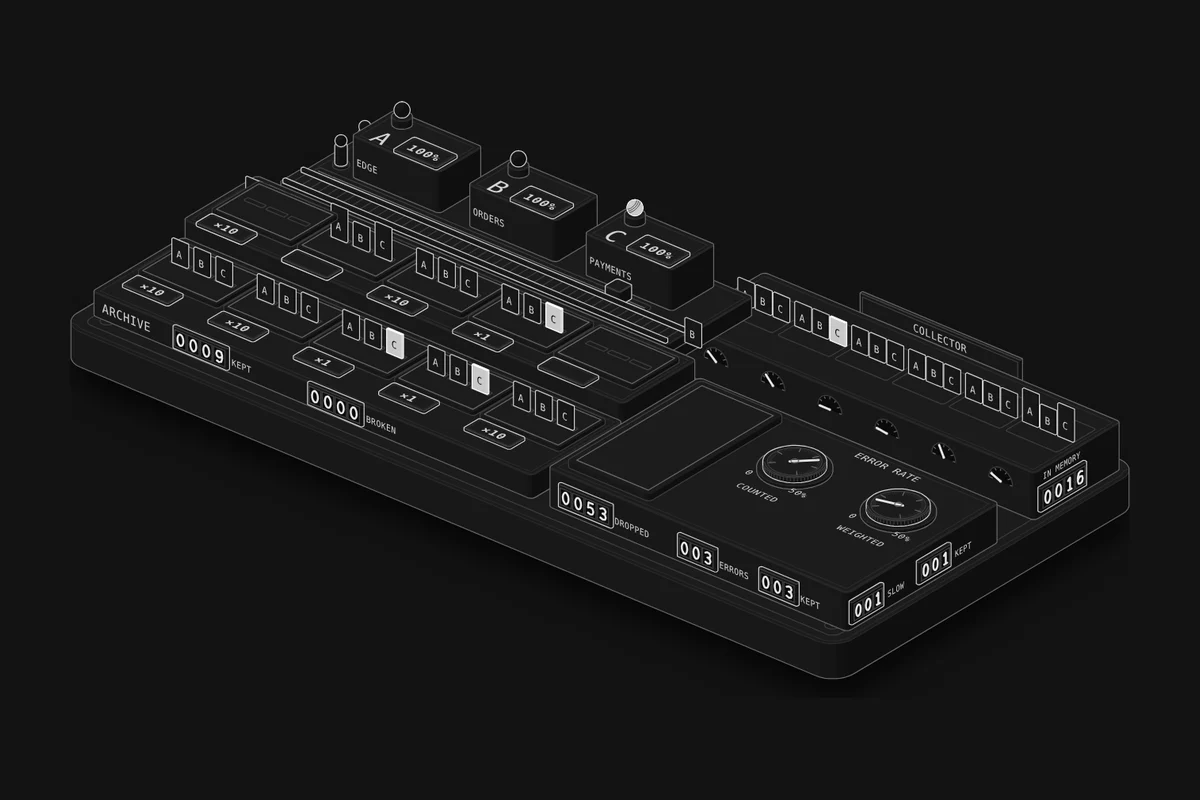
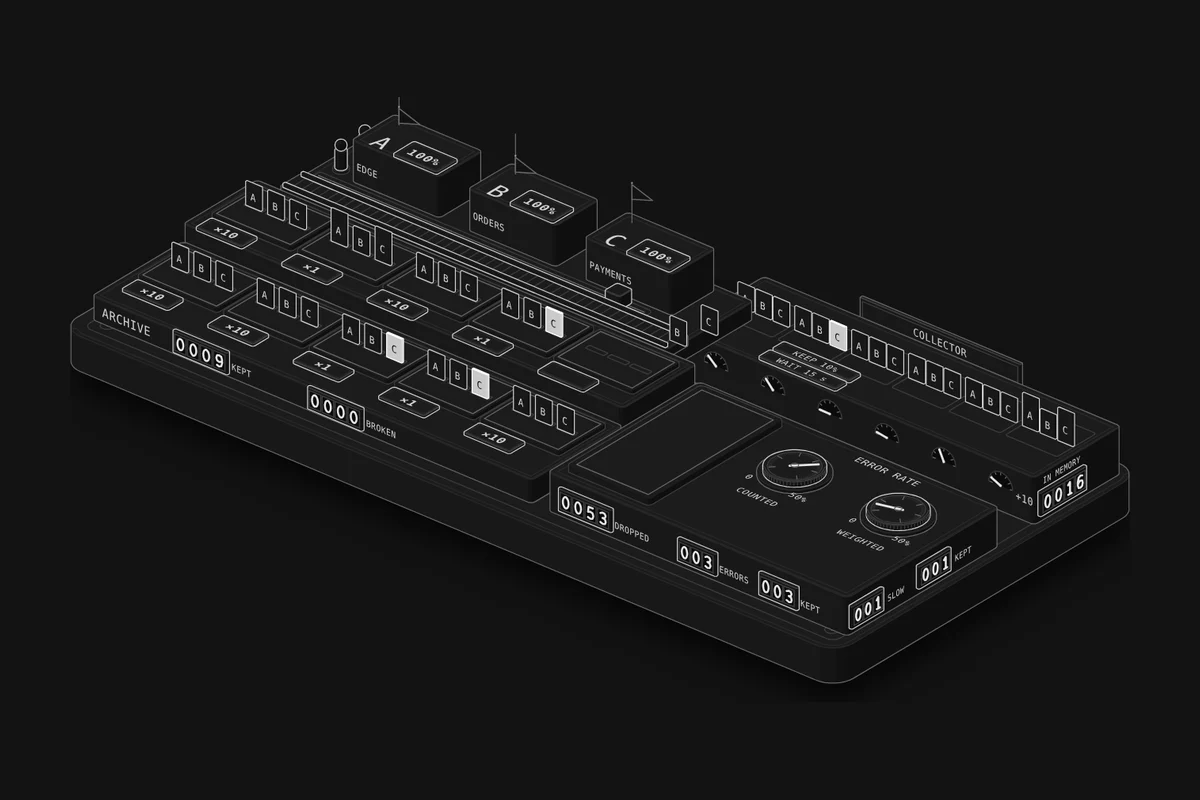
Lesson 73: fix review findings (folders on the right tiers, collector rules and +N on the rack, sampler flags, shorter caption)
Claude-Session: https://claude.ai/code/session_01S5z2gCvevbrGU3fXgpGDmP

diff --git a/src/lessons/sampling/figure.ts b/src/lessons/sampling/figure.ts
@@ -1,14 +1,15 @@
 // @ts-nocheck: figure code in the style of the other lessons; drawing shorthands come from src/lib/draw.
 // A trace archive. At the back left, the service bench: requests from the users walk a track past three services, A
-// (the edge), B (orders) and C (payments); each service has a sampler (a lamp that lights when it records, and a
+// (the edge), B (orders) and C (payments); each service has a sampler (a flag it raises while it records, and a
 // plaque with its rate) and writes one span card per request. The cards ride the belt to the collector at the back
-// right, whose rack holds each trace's cards over a timer (the decision wait) until it keeps or drops them. Kept cards
+// right, whose rack holds each trace's cards over a timer (the decision wait) until it keeps or drops them; plaques in
+// front of the rack give its rules, and a "+N" tag at the end of the rack counts the traces held that it can't show. Kept cards
 // are filed by trace in the archive's folders, each with its weight; dropped ones fall into the discard bin. On the
 // tally desk: errors and slow requests sent and kept, and two dials for the error rate the archive gives, counted and
 // weighted. Every number is a counter on a real object.
 // Built with the Anatomy kit (MIT, github.com/wheresryan22/anatomy) and the shared workbench parts.
 import * as k from "../../../workbench/kit.mjs";
-import { basePlate, digitCounter, figurine, dial, meter, plaque, sign, lamp, faceText, litFill } from "../../../workbench/parts.mjs";
+import { basePlate, digitCounter, figurine, dial, meter, plaque, sign, pennant, faceText } from "../../../workbench/parts.mjs";
 import { t } from "../../../workbench/i18n.mjs";
 import { shorthand } from "../../lib/draw";
 
@@ -27,7 +28,7 @@ const ST_TOP = BENCH_H + ST_H;                        // 20
 const ST_FRONT = ST_Y + ST_D;                         // -74
 export const TRACK_Y = -69.5;
 export const ENTRY = [-142, TRACK_Y, BENCH_H];
-export const LAMP_AT = SX.map((cx) => [cx - 10, ST_Y + 5, ST_TOP]);
+export const FLAG_AT = SX.map((cx) => [cx - 12, ST_Y + 4, ST_TOP]);
 // where a span card leaves its station
 export const EMIT = SX.map((cx) => [cx + 6, ST_FRONT + 1, BENCH_H + 0.2]);
 
@@ -98,10 +99,13 @@ function station(i) {
   const plan = { x: cx - 17, y: ST_Y, w: 34, d: ST_D, r: 1.4 };
   const out = [S(k.slabOf(plan, BENCH_H, ST_H, P, 3, 0.5), { tone: "mid", inner: L(k.planOutline(k.insetPlan(plan, 1.8), ST_TOP, P), { tone: "faint" }) })];
   out.push(faceText(P, [cx - 9, ST_Y + 18.5, ST_TOP], "ABC"[i], { face: "top", size: 9, tone: "hi", anchor: "middle" }));
-  // the sampler: its rate on a plaque (the live code writes it) and a lamp that lights while it records
+  // the sampler: its rate on a plaque (the live code writes it) and a flag it raises while it records
   out.push(plaque(P, { x: cx - 1.5, y: ST_Y + 9.5, z: ST_TOP, w: 17, d: 10 }));
   out.push(faceText(P, [cx + 7, ST_Y + 16.6, ST_TOP + 0.8], "10%", { face: "top", size: 4.6, tone: "hi", anchor: "middle", attr: `data-rate="${i}"` }));
-  out.push(`<g data-lamp="${i}">${lamp(P, LAMP_AT[i], { r: 2.4 })}</g><g data-lamp-on="${i}" style="display:none">${litFill(lamp(P, LAMP_AT[i], { r: 2.4, lit: true }))}</g>`);
+  const [fx, fy, fz] = FLAG_AT[i];
+  const pole = L(k.segment([fx, fy, fz], [fx, fy, fz + 13.6], P), { tone: "mid" });
+  out.push(`<g data-flag-down="${i}">${pole}${pennant(P, { x: fx, y: fy, z: fz, height: 5.6, length: 8, drop: 5 })}</g>`);
+  out.push(`<g data-flag-up="${i}" style="display:none">${pennant(P, { x: fx, y: fy, z: fz, height: 13, length: 8, drop: 5 })}</g>`);
   out.push(words(cx - 15, ST_FRONT, BENCH_H + 4.6, NAMES[i], 3.2, { tone: "hi" }));
   return out.join("");
 }
@@ -138,6 +142,16 @@ function collector() {
     out.push(L(k.planOutline({ x, y: -88, w: SLOT_W, d: 18, r: 0.8 }, COLL_H, P), { tone: "lo" }));
     out.push(`<g data-meter-wrap="${i}">${meterPart(x + SLOT_W / 2, i)}</g>`);
   });
+  // the rules, on plaques in front of the rack (tail sampling only): one set per collector
+  // (stacked, and clear of the left end, which the archive's back tier hides)
+  for (const [c, x0] of [[0, 38], [1, 106]]) {
+    const out2 = [plaque(P, { x: x0, y: -69.4, z: COLL_H, w: 30, d: 5.6 }), plaque(P, { x: x0, y: -63, z: COLL_H, w: 30, d: 5.6 })];
+    out2.push(faceText(P, [x0 + 15, -65.1, COLL_H + 0.8], "", { face: "top", size: 3.3, tone: "hi", anchor: "middle", attr: `data-rule="keep"` }));
+    out2.push(faceText(P, [x0 + 15, -58.7, COLL_H + 0.8], "", { face: "top", size: 3.3, tone: "hi", anchor: "middle", attr: `data-rule="wait"` }));
+    out.push(`<g data-rules="${c}" style="display:none">${out2.join("")}</g>`);
+  }
+  // "+N": traces held in memory beyond the rack's slots, at the end of each collector's slots
+  for (const [c, x] of [[0, 78.2], [1, 142.2]]) out.push(faceText(P, [x, COLL_FRONT, 6.2], "", { size: 3.6, tone: "hi", anchor: "middle", attr: `data-more="${c}"` }));
   // the wall between the two collectors (shown with two)
   out.push(`<g data-divider style="display:none">${S(k.slabOf({ x: 77.2, y: -92, w: 1.6, d: 30, r: 0.3 }, COLL_H, 6, P, 2), { tone: "hi", crease: "lo" })}</g>`);
   // IN MEMORY: traces held waiting for a decision, on the collector's right side
@@ -235,8 +249,8 @@ export function buildFigure() {
     width: WIDTH,
     height: HEIGHT,
     label: t(
-      "A trace archive on a base plate. At the back left, users send requests along a track past three services on a bench: A, the edge, B, orders, and C, payments. Each service has a sampler with a lamp and a plaque showing its rate, and writes one span card per request it records. The cards ride a belt across the middle to the collector at the back right, whose rack holds each trace's cards over a timer until it decides to keep or drop them; a counter on its side shows the traces held in memory. Kept cards are filed by trace in the archive's folders at the front left, three places per folder, with a plaque giving the trace's weight; counters show the traces kept and those kept with spans missing. Dropped cards fall into the discard bin at the right. On the tally desk in front, counters show errors and slow requests sent and kept, and two dials show the error rate the archive gives when you count its traces and when you weight them.",
-      "Un archivo de trazas sobre una placa base. Atrás a la izquierda, los usuarios envían solicitudes por un riel que pasa por tres servicios sobre un banco: A, la entrada, B, pedidos, y C, pagos. Cada servicio tiene un muestreador con una lámpara y una placa con su tasa, y escribe una tarjeta de span por cada solicitud que registra. Las tarjetas viajan por una cinta en el medio hasta el colector, atrás a la derecha, cuyo estante retiene las tarjetas de cada traza sobre un temporizador hasta que decide guardarlas o descartarlas; un contador en su costado muestra las trazas retenidas en memoria. Las tarjetas guardadas se archivan por traza en las carpetas del archivo, adelante a la izquierda, con tres lugares por carpeta y una placa con el peso de la traza; los contadores muestran las trazas guardadas y las que se guardaron con spans faltantes. Las tarjetas descartadas caen al cajón de descarte, a la derecha. En el escritorio de conteo, adelante, los contadores muestran los errores y las solicitudes lentas enviados y guardados, y dos diales muestran la tasa de error que da el archivo si cuentas sus trazas y si las ponderas.",
+      "A trace archive on a base plate. At the back left, users send requests along a track past three services on a bench: A, the edge, B, orders, and C, payments. Each service has a sampler with a flag it raises while it records and a plaque showing its rate, and writes one span card per request it records. The cards ride a belt across the middle to the collector at the back right, whose rack holds each trace's cards over a timer until it decides to keep or drop them; plaques in front of the rack give its keep rate and decision wait, a tag at the end of the rack counts the traces held beyond its slots, and a counter on its side shows all the traces held in memory. Kept cards are filed by trace in the archive's folders at the front left, three places per folder, with a plaque giving the trace's weight; counters show the traces kept and those kept with spans missing. Dropped cards fall into the discard bin at the right. On the tally desk in front, counters show errors and slow requests sent and kept, and two dials show the error rate the archive gives when you count its traces and when you weight them.",
+      "Un archivo de trazas sobre una placa base. Atrás a la izquierda, los usuarios envían solicitudes por un riel que pasa por tres servicios sobre un banco: A, la entrada, B, pedidos, y C, pagos. Cada servicio tiene un muestreador con una bandera que levanta mientras registra y una placa con su tasa, y escribe una tarjeta de span por cada solicitud que registra. Las tarjetas viajan por una cinta en el medio hasta el colector, atrás a la derecha, cuyo estante retiene las tarjetas de cada traza sobre un temporizador hasta que decide guardarlas o descartarlas; unas placas delante del estante dan su tasa de guardado y su espera de decisión, una etiqueta al final del estante cuenta las trazas retenidas que no caben en sus lugares, y un contador en su costado muestra todas las trazas retenidas en memoria. Las tarjetas guardadas se archivan por traza en las carpetas del archivo, adelante a la izquierda, con tres lugares por carpeta y una placa con el peso de la traza; los contadores muestran las trazas guardadas y las que se guardaron con spans faltantes. Las tarjetas descartadas caen al cajón de descarte, a la derecha. En el escritorio de conteo, adelante, los contadores muestran los errores y las solicitudes lentas enviados y guardados, y dos diales muestran la tasa de error que da el archivo si cuentas sus trazas y si las ponderas.",
     ),
     body: [
       plate(),
@@ -250,11 +264,11 @@ export function buildFigure() {
       belt(),
       `<g data-layer="belt"></g>`,
       tier(BACK, BACK_H),
-      Array.from({ length: 6 }, (_, j) => folder(6 + j)).join(""),
+      Array.from({ length: 5 }, (_, j) => folder(5 + j)).join(""),
       `<g data-layer="back"></g>`,
       tier(FRONT, FRONT_H),
       archiveFront(),
-      Array.from({ length: 6 }, (_, j) => folder(j)).join(""),
+      Array.from({ length: 5 }, (_, j) => folder(j)).join(""),
       `<g data-layer="front"></g>`,
       desk(),
       `<g data-layer="bin"></g>`,

diff --git a/src/lessons/sampling/live.ts b/src/lessons/sampling/live.ts
@@ -19,7 +19,10 @@ export default function mount({ P, G, CARD_SVG, TOKEN_SVG }, root) {
   const say = (v) => root.figure.say(L(v));
   const stat = (key, value) => root.stat(key, value);
   const layers = Object.fromEntries(["rack", "tokens", "belt", "back", "bin", "front", "fly"].map((n) => [n, q('[data-layer="' + n + '"]')]));
-  const lampOff = [0, 1, 2].map((i) => q('[data-lamp="' + i + '"]')), lampOn = [0, 1, 2].map((i) => q('[data-lamp-on="' + i + '"]'));
+  const flagDown = [0, 1, 2].map((i) => q('[data-flag-down="' + i + '"]')), flagUp = [0, 1, 2].map((i) => q('[data-flag-up="' + i + '"]'));
+  const rules = [0, 1].map((c) => q('[data-rules="' + c + '"]'));
+  const ruleText = (name) => qa('[data-rule="' + name + '"]');
+  const moreText = [0, 1].map((c) => q('[data-more="' + c + '"]'));
   const rateText = [0, 1, 2].map((i) => q('[data-rate="' + i + '"]'));
   const weightText = Array.from({ length: G.FOLDERS }, (_, i) => q('[data-weight="' + i + '"]'));
   const signs = { one: q('[data-signs="one"]'), two: q('[data-signs="two"]') }, divider = q("[data-divider]");
@@ -89,6 +92,10 @@ export default function mount({ P, G, CARD_SVG, TOKEN_SVG }, root) {
     rateText.forEach((el, i) => setText(el, cfg.mode === "tail" ? "100%" : i === 2 && cfg.pay === "all" ? "100%" : pc(keep)));
     const two = cfg.mode === "tail" && cfg.coll !== "one";
     show(signs.one, !two); show(signs.two, two); show(divider, two);
+    // the collector's rules, in front of its rack: only tail sampling has any
+    show(rules[0], cfg.mode === "tail"); show(rules[1], two);
+    ruleText("keep").forEach((el) => setText(el, L("KEEP ", "GUARDA ") + pc(keep)));
+    ruleText("wait").forEach((el) => setText(el, L("WAIT ", "ESPERA ") + cfg.wait + " s"));
   }
 
   // ---------- where things are ----------
@@ -159,7 +166,7 @@ export default function mount({ P, G, CARD_SVG, TOKEN_SVG }, root) {
           const who = cfg.coll === "one" ? "" : " (" + L("collector ", "colector ") + (p.coll + 1) + ")";
           const of = p.seen + "/" + (p.seen + p.late);
           let text;
-          if (p.why === "error") text = T("trace " + tr.id + " kept" + who + ": payments failed", "traza " + tr.id + " guardada" + who + ": pagos falló");
+          if (p.why === "error") text = T("trace " + tr.id + " kept" + who + ": payments failed", "traza " + tr.id + " guardada" + who + ": falló en pagos");
           else if (p.why === "slow") text = T("trace " + tr.id + " kept" + who + ": it took " + fmt(tr.spans[0].end - tr.t0), "traza " + tr.id + " guardada" + who + ": tardó " + fmt(tr.spans[0].end - tr.t0));
           else if (p.why === "base") text = T("trace " + tr.id + " kept" + who + " by the " + Math.round(lab.cfg.keep * 100) + "% rule", "traza " + tr.id + " guardada" + who + " por la regla del " + Math.round(lab.cfg.keep * 100) + "%");
           else if (p.late && (tr.slow || tr.err)) text = T("trace " + tr.id + " dropped" + who + ": judged on " + of + " spans · the slow or failing ones come later", "traza " + tr.id + " descartada" + who + ": juzgada con " + of + " spans · los lentos o fallidos llegan después");
@@ -177,9 +184,9 @@ export default function mount({ P, G, CARD_SVG, TOKEN_SVG }, root) {
             : T("request " + tr.id + " will fail at payments · the edge didn't sample it, so payments doesn't record it", "la solicitud " + tr.id + " va a fallar en pagos · la entrada no la muestreó, así que pagos no la registra");
         } else {
           const rec = LETTERS.split("").filter((_, i) => tr.spans[i].recorded).join(" ");
-          text = rec ? T("request " + tr.id + " · recorded by " + rec + (tr.keptN < 3 ? " · a broken trace" : " · whole"), "solicitud " + tr.id + " · la registra " + rec + (tr.keptN < 3 ? " · traza incompleta" : " · completa"))
+          text = rec ? T("request " + tr.id + " · recorded by " + rec + (tr.keptN < 3 ? " · a broken trace" : " · whole"), "solicitud " + tr.id + " · la " + (rec.length > 1 ? "registran " : "registra ") + rec + (tr.keptN < 3 ? " · traza incompleta" : " · completa"))
             : T("request " + tr.id + " · no service recorded it", "solicitud " + tr.id + " · ningún servicio la registró");
-          if (tr.err) text = c.recorded ? T("request " + tr.id + " fails at payments · recorded by " + (rec || "–") + (tr.keptN < 3 ? " · the rest of its trace is missing" : ""), "la solicitud " + tr.id + " falla en pagos · la registra " + (rec || "–") + (tr.keptN < 3 ? " · falta el resto de su traza" : ""))
+          if (tr.err) text = c.recorded ? T("request " + tr.id + " fails at payments · recorded by " + (rec || "–") + (tr.keptN < 3 ? " · the rest of its trace is missing" : ""), "la solicitud " + tr.id + " falla en pagos · la " + (rec.length > 1 ? "registran " : "registra ") + (rec || "–") + (tr.keptN < 3 ? " · falta el resto de su traza" : ""))
             : T("request " + tr.id + " fails at payments · payments didn't record it", "la solicitud " + tr.id + " falla en pagos · pagos no la registró");
         }
         note = { t: clock, text, pri: notable };
@@ -193,7 +200,7 @@ export default function mount({ P, G, CARD_SVG, TOKEN_SVG }, root) {
     fileTraces();
     for (const r of cards.values()) r.seen = false;
     for (const r of tokens.values()) r.seen = false;
-    const lit = [false, false, false];
+    const lit = [false, false, false];      // which samplers are recording: their flags go up
     for (const tr of lab.traces) {
       if (tr.t0 > clock) break;
       const aEnd = tr.spans[0].end;
@@ -261,7 +268,18 @@ export default function mount({ P, G, CARD_SVG, TOKEN_SVG }, root) {
       const sorted = [...kids].sort((a, b) => depthOf(pos(a), P) - depthOf(pos(b), P));
       if (sorted.some((el, n) => el !== kids[n])) sorted.forEach((el) => layer.appendChild(el));
     }
-    lit.forEach((on, i) => { show(lampOn[i], on); show(lampOff[i], !on); });
+    lit.forEach((on, i) => { show(flagUp[i], on); show(flagDown[i], !on); });
+    // "+N" at the end of each collector's slots: traces it holds that the rack has no slot for
+    const two = cfg.mode === "tail" && cfg.coll !== "one";
+    const more = [0, 1].map((c) => {
+      if (cfg.mode !== "tail") return 0;
+      let held = 0, shown = 0;
+      for (const tr of lab.traces) { if (tr.t0 > clock) break; for (const p of tr.parts) if ((!two || p.coll === c) && p.first <= clock && clock < p.at) held++; }
+      for (let i = 0; i < G.SLOTS; i++) if (slots[i] && (!two || slots[i].coll === c)) shown++;
+      return Math.max(0, held - shown);
+    });
+    if (!two) { more[1] = more[0]; more[0] = 0; }
+    moreText.forEach((el, c) => setText(el, more[c] ? "+" + more[c] : ""));
     // rack timers
     for (let i = 0; i < G.SLOTS; i++) meters[i].set(slots[i] ? clamp((slots[i].at - clock) / lab.cfg.wait) : 0);
     // counters and readout
@@ -277,9 +295,10 @@ export default function mount({ P, G, CARD_SVG, TOKEN_SVG }, root) {
     const st = lab.st;
     stat("kept", st.sent ? L(st.kept + " of " + st.sent, st.kept + " de " + st.sent) : "–");
     stat("broken", st.kept ? st.broken + " (" + pc(st.broken / st.kept) + ")" : "–");
-    stat("errors", st.err ? L(st.errKept + " of " + st.err + ", " + st.errWhole + " whole", st.errKept + " de " + st.err + ", " + st.errWhole + " completos") : "–");
-    stat("slow", st.slow ? L(st.slowKept + " of " + st.slow + ", " + st.slowWhole + " whole", st.slowKept + " de " + st.slow + ", " + st.slowWhole + " completas") : "–");
-    stat("held", cfg.mode === "tail" ? L(lab.held() + " traces", lab.held() + " trazas") : "–");
+    stat("errors", st.err ? L(st.errKept + " of " + st.err + ", " + st.errWhole + " whole", st.errKept + " de " + st.err + ", " + st.errWhole + (st.errWhole === 1 ? " completo" : " completos")) : "–");
+    stat("slow", st.slow ? L(st.slowKept + " of " + st.slow + ", " + st.slowWhole + " whole", st.slowKept + " de " + st.slow + ", " + st.slowWhole + (st.slowWhole === 1 ? " completa" : " completas")) : "–");
+    const h = lab.held();
+    stat("held", cfg.mode === "tail" ? L(h + (h === 1 ? " trace" : " traces"), h + (h === 1 ? " traza" : " trazas")) : "–");
     stat("rate", st.cTraces ? pc(st.cErr / st.cTraces) + " → " + pc(st.wErr / st.wSum) : "–");
   }
   function readout() {
@@ -328,7 +347,7 @@ export default function mount({ P, G, CARD_SVG, TOKEN_SVG }, root) {
   let pending = 0;
   root.on("watch", (w) => {
     for (const k of ["mode", "keep", "pay", "wait", "coll"]) set(k, w[k], true);
-    set("speed", w.warm ? "4" : "2", true);
+    set("speed", "3", true);
     restart(w.warm || WARM);
     showStats();
     wake();

diff --git a/src/lessons/sampling/page.ts b/src/lessons/sampling/page.ts
@@ -181,13 +181,13 @@ export default defineLesson({
     plate: {
       title: t("Trace archive", "Archivo de trazas"),
       keys: [
-        { mark: "lit", label: t("A failing request's span card; a sampler's lamp while it records", "La tarjeta de span de una solicitud que falla; la lámpara de un muestreador mientras registra") },
+        { mark: "lit", label: t("A failing request's span card", "La tarjeta de span de una solicitud que falla") },
         { mark: "raised", label: t("Span cards: the service's letter in front; a slow request's card is taller", "Tarjetas de span: la letra del servicio al frente; la de una solicitud lenta es más alta") },
         { mark: "flat", label: t("Folders: one kept trace each, with places for A, B and C", "Carpetas: una traza guardada cada una, con lugar para A, B y C") },
       ],
       caption: t(
-        "Each request starts at A, the edge, calls B, orders, then C, payments; each service writes a span when its part ends, so B's card leaves first and A's last. The plaque on a service shows its sampler's rate; under parent-based sampling a request carries the edge's decision as a flag. With tail sampling every span is recorded and the collector holds a trace's cards in a rack slot, its gauge running down the decision wait, then keeps every error, every trace of " + SLOW_T + " s or more and the keep rate of the rest; spans that arrive after the decision follow it. A folder with an empty place is a broken trace. Its plaque is its weight: 1 ÷ the chance it was kept. The dials read the archive's error rate counted trace by trace and weighted by the plaques. The machine fails " + pctLive(LIVE_ERR) + " of requests and slows " + pctLive(LIVE_SLOW) + " (4 to 12 s), ten times the experiments' shares, so you see them; durations and delays are illustrative.",
-        "Cada solicitud empieza en A, la entrada, llama a B, pedidos, y luego a C, pagos; cada servicio escribe un span cuando termina su parte, así que la tarjeta de B sale primero y la de A al final. La placa de un servicio muestra la tasa de su muestreador; con parent-based, la solicitud lleva la decisión de la entrada como una bandera. Con tail sampling se registra cada span y el colector retiene las tarjetas de una traza en un lugar del estante, con su indicador bajando durante la espera de decisión, y después guarda cada error, cada traza de " + SLOW_T + " s o más y la tasa de guardado del resto; los spans que llegan después de la decisión la siguen. Una carpeta con un lugar vacío es una traza incompleta. Su placa es su peso: 1 ÷ la probabilidad de que se guardara. Los diales leen la tasa de error del archivo contada traza por traza y ponderada por las placas. La máquina hace fallar el " + pctLive(LIVE_ERR) + " de las solicitudes y vuelve lento el " + pctLive(LIVE_SLOW) + " (de 4 a 12 s), diez veces lo de los experimentos, para que los veas; las duraciones y demoras son ilustrativas.",
+        "Each request starts at A, the edge, calls B, orders, then C, payments; each service writes a span when its part ends, so B's card leaves first and A's last. A service's plaque shows its sampler's rate, and its flag goes up while it records; under parent-based sampling the request carries the edge's decision as a flag. With tail sampling every span is recorded; the collector holds a trace's cards in a rack slot while its gauge runs down the decision wait, then keeps every error, every trace of " + SLOW_T + " s or more and the keep rate of the rest. A folder with an empty place is a broken trace; its plaque is its weight, 1 ÷ the chance it was kept. The machine fails " + pctLive(LIVE_ERR) + " of requests and slows " + pctLive(LIVE_SLOW) + ", ten times the experiments' shares.",
+        "Cada solicitud empieza en A, la entrada, llama a B, pedidos, y luego a C, pagos; cada servicio escribe un span al terminar su parte, así que la tarjeta de B sale primero y la de A, última. La placa de un servicio muestra la tasa de su muestreador, y su bandera sube mientras registra; con parent-based, la solicitud lleva la decisión de la entrada como bandera. Con tail sampling se registra cada span; el colector retiene las tarjetas de una traza en el estante mientras su indicador descuenta la espera de decisión, y luego guarda cada error, cada traza de " + SLOW_T + " s o más y la tasa de guardado del resto. Una carpeta con un lugar vacío es una traza incompleta; su placa es su peso, 1 ÷ la probabilidad de guardarla. La máquina hace fallar el " + pctLive(LIVE_ERR) + " de las solicitudes y vuelve lento el " + pctLive(LIVE_SLOW) + ", diez veces lo de los experimentos.",
       ),
       stage: { "data-archive": "" },
       label: t("Trace sampling simulation. Space pauses or resumes.", "Simulación de muestreo de trazas. Espacio pausa o reanuda."),
@@ -210,8 +210,8 @@ export default defineLesson({
       { speed: true },
       { actions: [["err", t("Send a failing request", "Enviar una solicitud que falla")], ["slow", t("Send a slow request", "Enviar una solicitud lenta")], ["reset", t("Start over", "Empezar de nuevo")], ["pause", t("Pause", "Pausa")]], label: t("Do something", "Haz algo") },
     ],
-    note: t("Changing a setting starts the run again. About " + LIVE_RATE + " requests arrive a second. The keep rate is each head sampler's rate, or the share of ordinary traces the collector keeps; payments' own rate, the decision wait and the collectors only matter where they apply.",
-      "Cambiar un ajuste reinicia la ejecución. Llegan unas " + LIVE_RATE + " solicitudes por segundo. La tasa de guardado es la de cada muestreador head, o la parte de las trazas comunes que guarda el colector; la tasa propia de pagos, la espera de decisión y los colectores solo importan donde aplican."),
+    note: t("Changing a setting starts the run again. About " + LIVE_RATE + " requests arrive a second; a slow one takes 4 to 12 s at payments, and spans that reach the collector after its decision follow it. The keep rate is each head sampler's rate, or the share of ordinary traces the collector keeps; payments' own rate, the decision wait and the collectors only matter where they apply.",
+      "Cambiar un ajuste reinicia la ejecución. Llegan unas " + LIVE_RATE + " solicitudes por segundo; una lenta tarda de 4 a 12 s en pagos, y los spans que llegan al colector después de su decisión la siguen. La tasa de guardado es la de cada muestreador head, o la parte de las trazas comunes que guarda el colector; la tasa propia de pagos, la espera de decisión y los colectores solo importan donde aplican."),
   },
   predict: { intro: t("Each experiment changes one thing. Choose what you expect <em>before</em> running it. Results come from the same model as the machine, averaged over eight seeded runs of " + N_REQ + " requests, with 0.5% failing and 1% slow.",
     "Cada experimento cambia una sola cosa. Elige lo que esperas <em>antes</em> de ejecutarlo. Los resultados salen del mismo modelo que la máquina, promediados sobre ocho ejecuciones con semilla fija de " + N_REQ + " solicitudes, con un 0.5% que falla y un 1% lento."), experiments: withResults(EXPERIMENTS, RUNS) },
